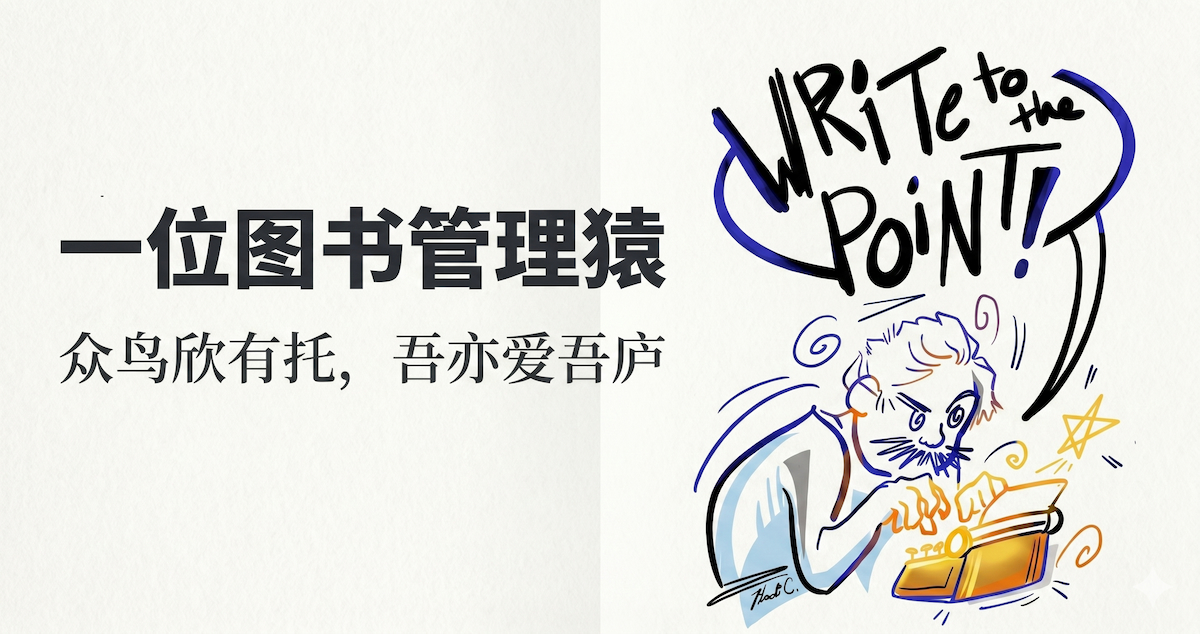
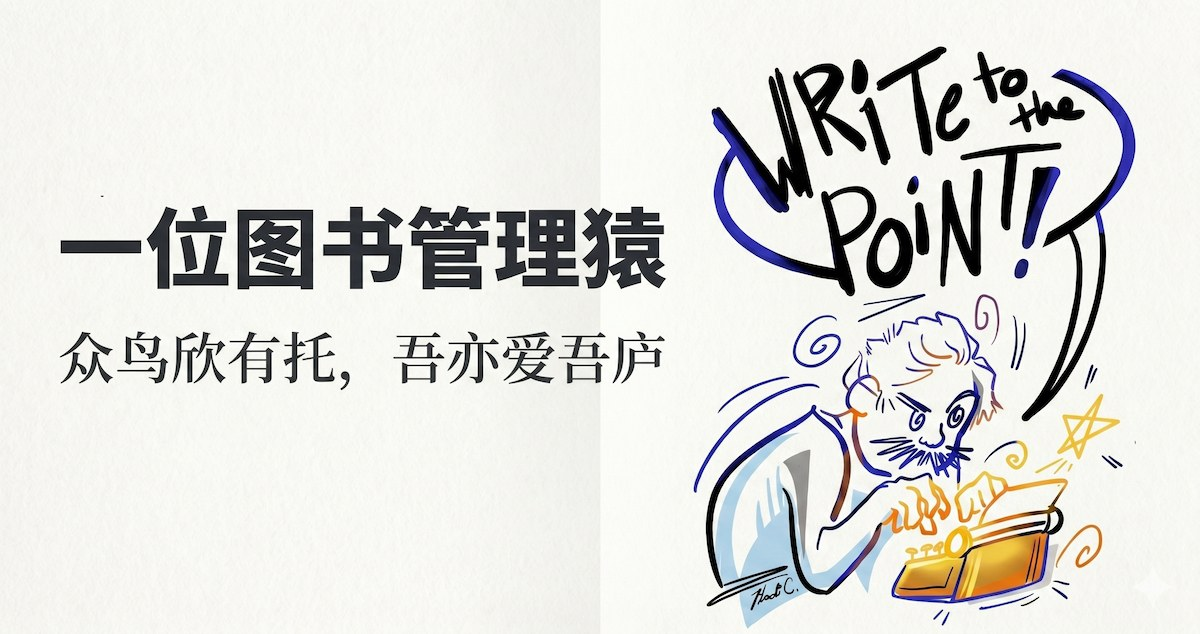
optimization flow

Changed region(s): [[0.8017, 0.5394, 0.8325, 0.5694], [0.7708, 0.7192, 0.8017, 0.7492]]

diff --git a/_tabs/about.md b/_tabs/about.md
@@ -11,9 +11,11 @@ order: 4
 
 ## 写什么
 
-- **读书笔记** — 读完一本书，记下仍有余温的句子与想法
-- **工作与工具** — 和图书、数据、效率相关的小技巧
-- **生活随感** — 与书无关但值得记一笔的瞬间
+- **读书与阅读** — 阅读笔记、书单，以及关于阅读方法的实践
+- **注意力与数字生活** — 记录屏幕、信息、习惯与认知相关的观察
+- **生活随感** — 教育、健康和日常中值得记下的发现
+
+目前文章主要围绕读书与随笔展开；工作和工具类内容会随着实践积累再补充。
 
 ## 联系
 
